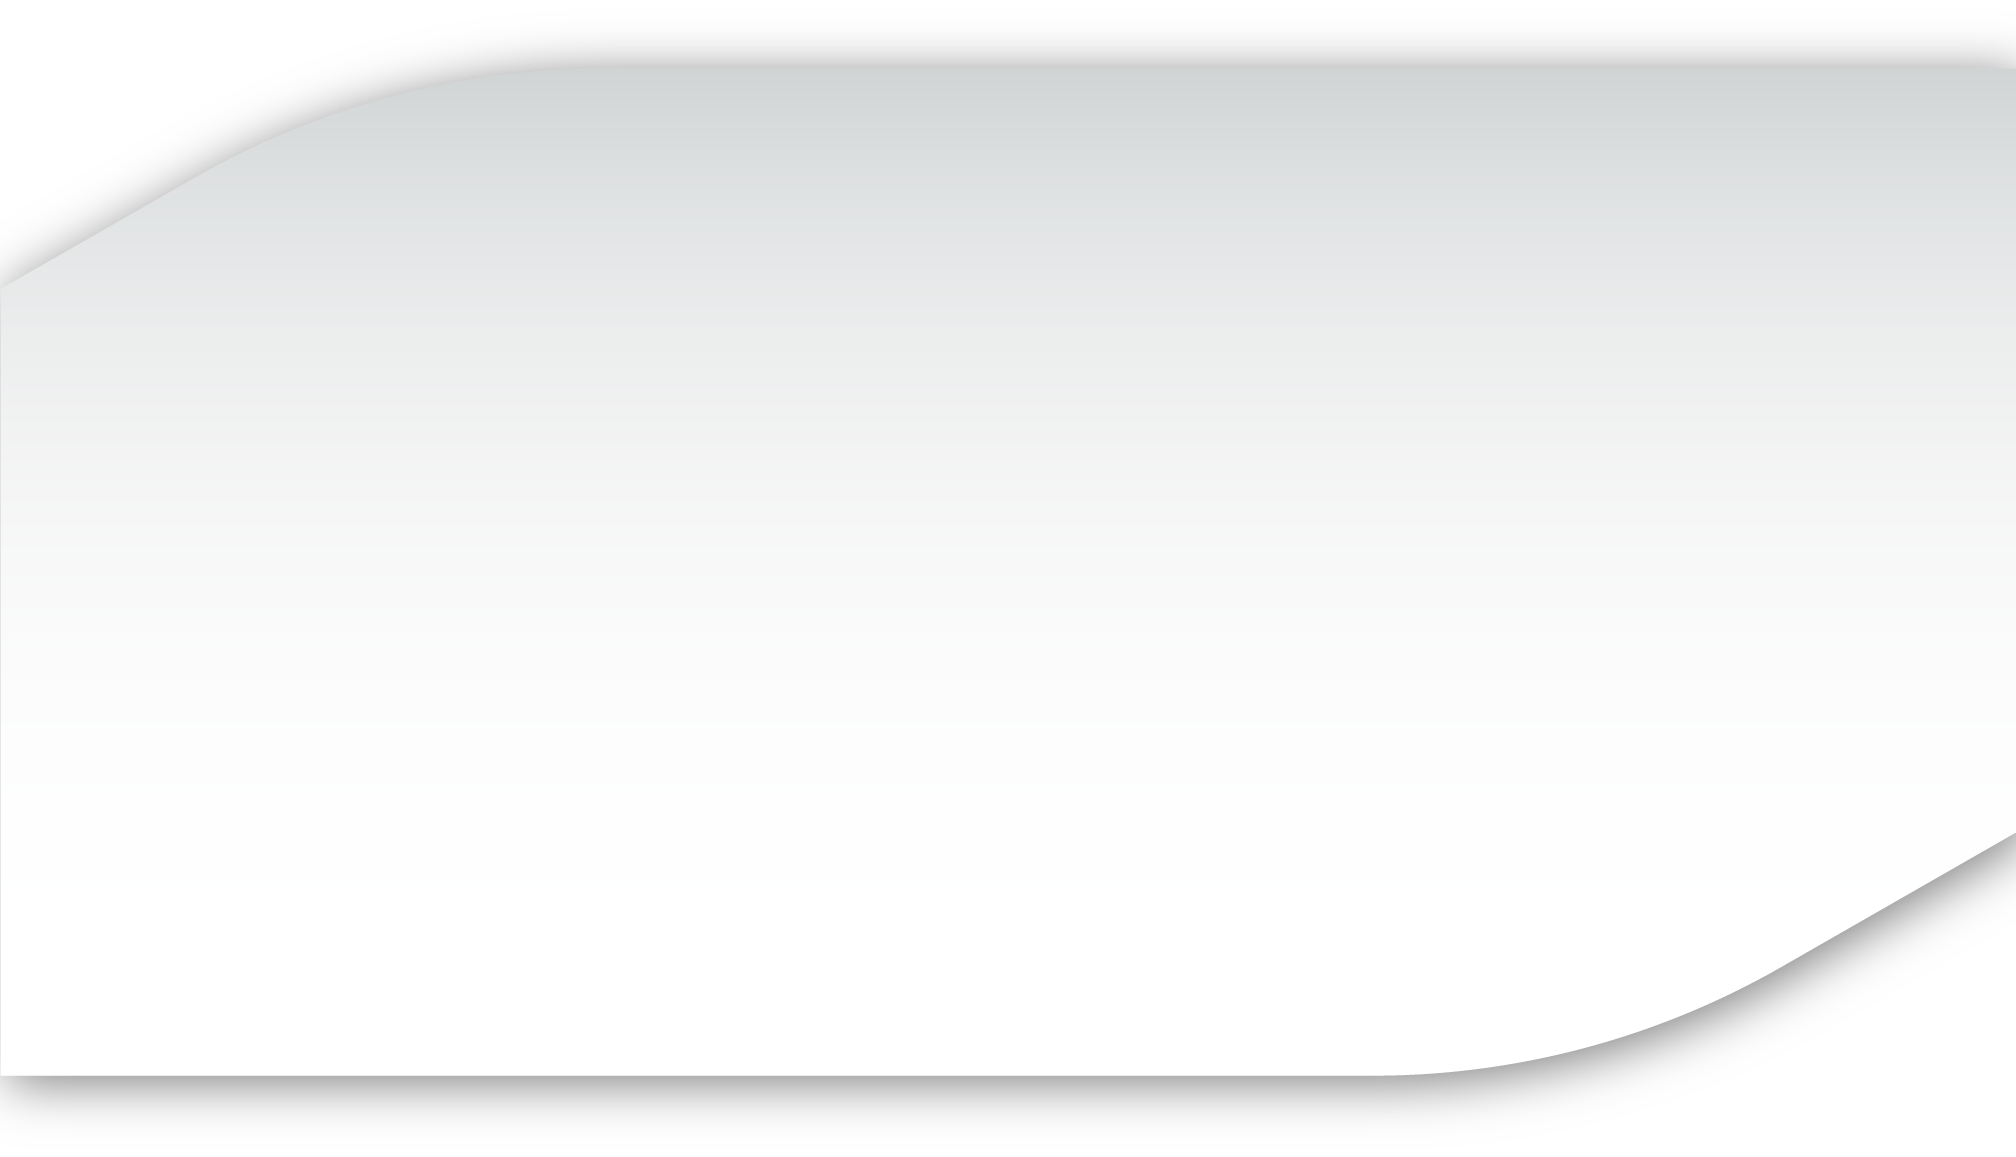
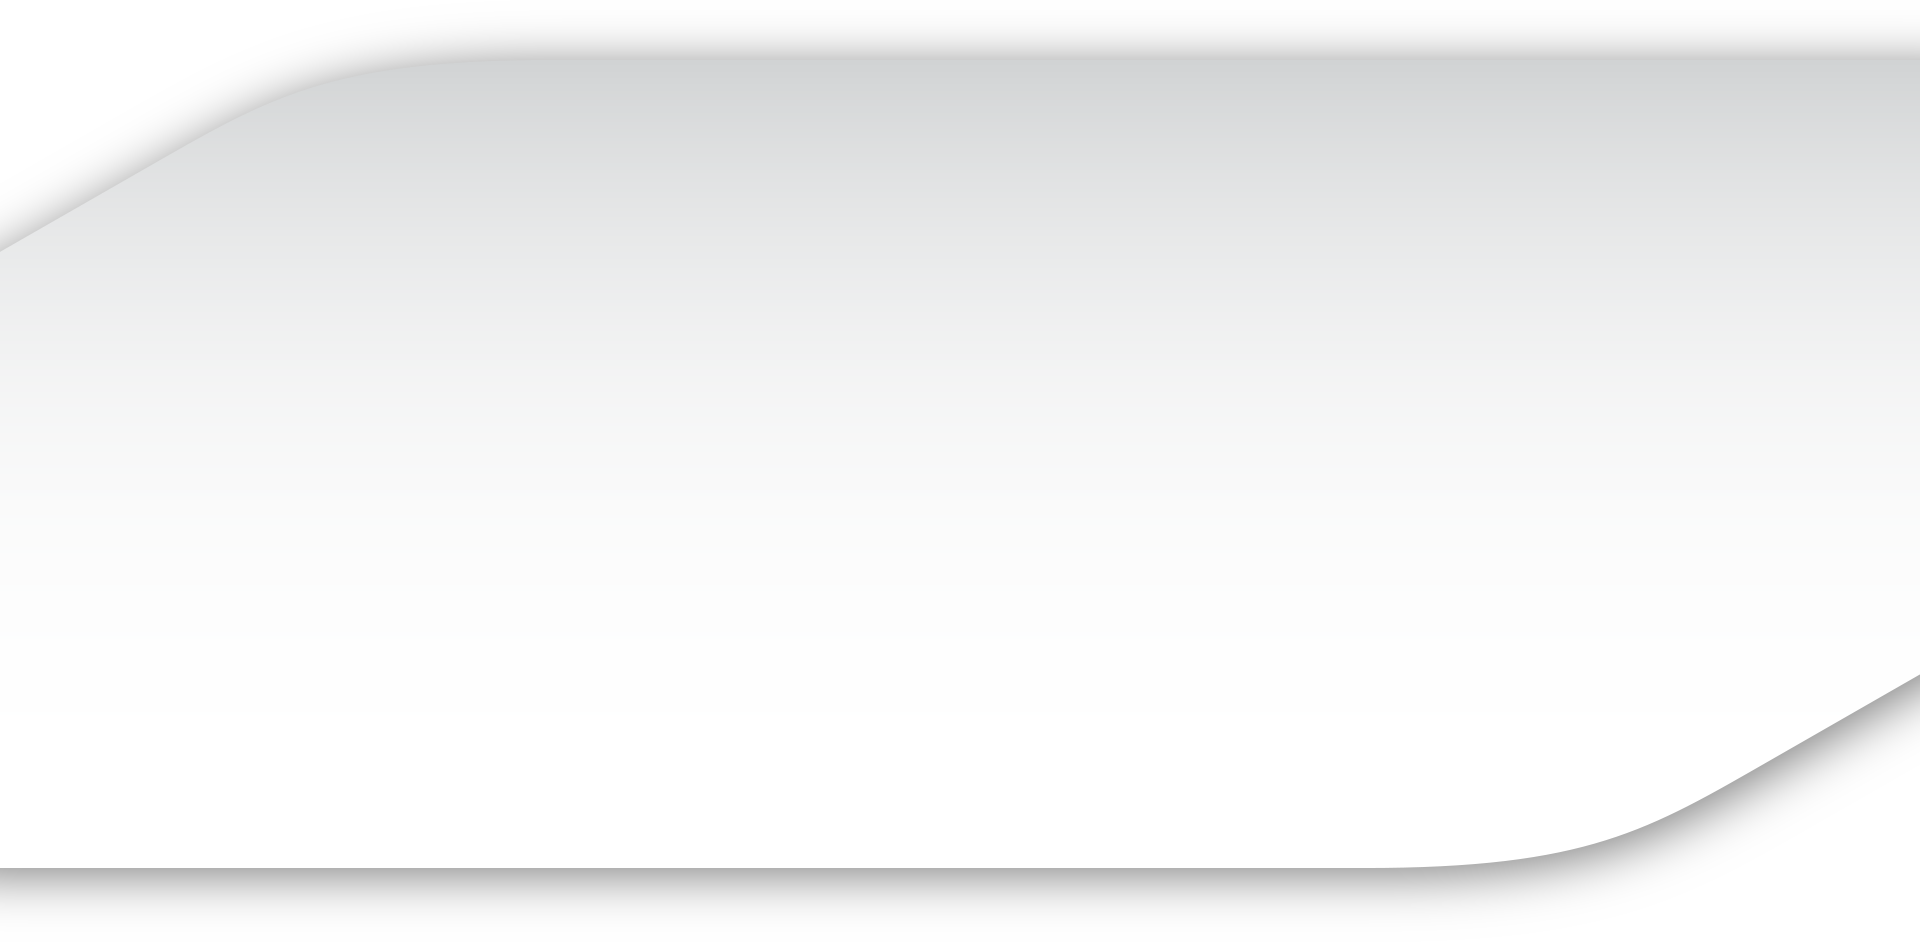
change bg bottom

Changed region(s): [[0.0, 0.9236, 0.7188, 0.9544], [0.75, 0.7696, 0.9375, 0.9236]]

diff --git a/index-en.html b/index-en.html
@@ -918,28 +918,6 @@ height="0" width="0" style="display:none;visibility:hidden"></iframe></noscript>
 					<img src="img/icon-partn-4.svg" alt="">
 				</a>
 			</div>
-
-<!-- =======
-				<p class="font-l-42 title-pairs">Eloplay in Media</p>
-				<div class="elo-in-media">
-					<div class="item-media-vc">
-						<a href="https://vc.ru/p/eloplay" target="_blank"><img src="img/icon-partn-1.png" alt=""></a>
-					</div>
-					<div class="item-media-playua">
-						<a href="http://playua.net/eloplay-com-spravzhnij-kibersport-u-tebe-vdoma/" target="_blank"><img src="img/icon-partn-2.png" alt=""></a>
-					</div>
-					<div class="item-media-lebedev">
-						<a href="https://www.artlebedev.ru/eloplay/" target="_blank"><img src="img/icon-partn-5.svg" alt=""></a>
-					</div>
-					<div class="item-media-openg">
-						<a href="http://www.opengamer.com.ua/esportconf-ukraine-2017-zvit/" target="_blank"><img src="img/icon-partn-3.png" alt=""></a>
-					</div>
-					<div class="item-media-shpil">
-						<a href="http://shpil.com/2016/12/arena-eloplay-put-k-uspeshnomu-kibersportivnomu-budushhemu/" target="_blank"><img src="img/icon-partn-4.svg" alt=""></a>
-					</div>
-				</div>
->>>>>>> b0efcda606ffe2982489989e75be284ecec5878a -->
-
 				<p class="font-l-42 title-pairs">Eloplay Partners</p>
 				<div class="box-pairs">
 					<a href="" class="items-pairs">

diff --git a/css/main.css b/css/main.css
@@ -1688,7 +1688,8 @@ p {
   background-size: cover;
   width: 100%;
   margin-top: 58px;
-  padding-top: 143px; }
+  padding-top: 180px;
+  min-height: 942px; }
   .bg-in-media .container {
     padding-bottom: 252px; }
   .bg-in-media .font-l-42 {
@@ -2307,6 +2308,7 @@ a[href^=mailto] {
     position: relative;
     width: 235px;
     height: 165px;
+    cursor: pointer;
     transition: all 0.2s ease-out; }
     .box-pairs .items-pairs img {
       position: absolute;

diff --git a/css/main.sass b/css/main.sass
@@ -1621,7 +1621,8 @@ p
 	background-size: cover
 	width: 100%
 	margin-top: 58px
-	padding-top: 143px
+	padding-top: 180px
+	min-height: 942px
 	.container
 		padding-bottom: 252px
 	.font-l-42
@@ -2203,6 +2204,7 @@ a
 		position: relative
 		width: 235px
 		height: 165px
+		cursor: pointer
 		transition: all .2s ease-out
 		img
 			position: absolute
